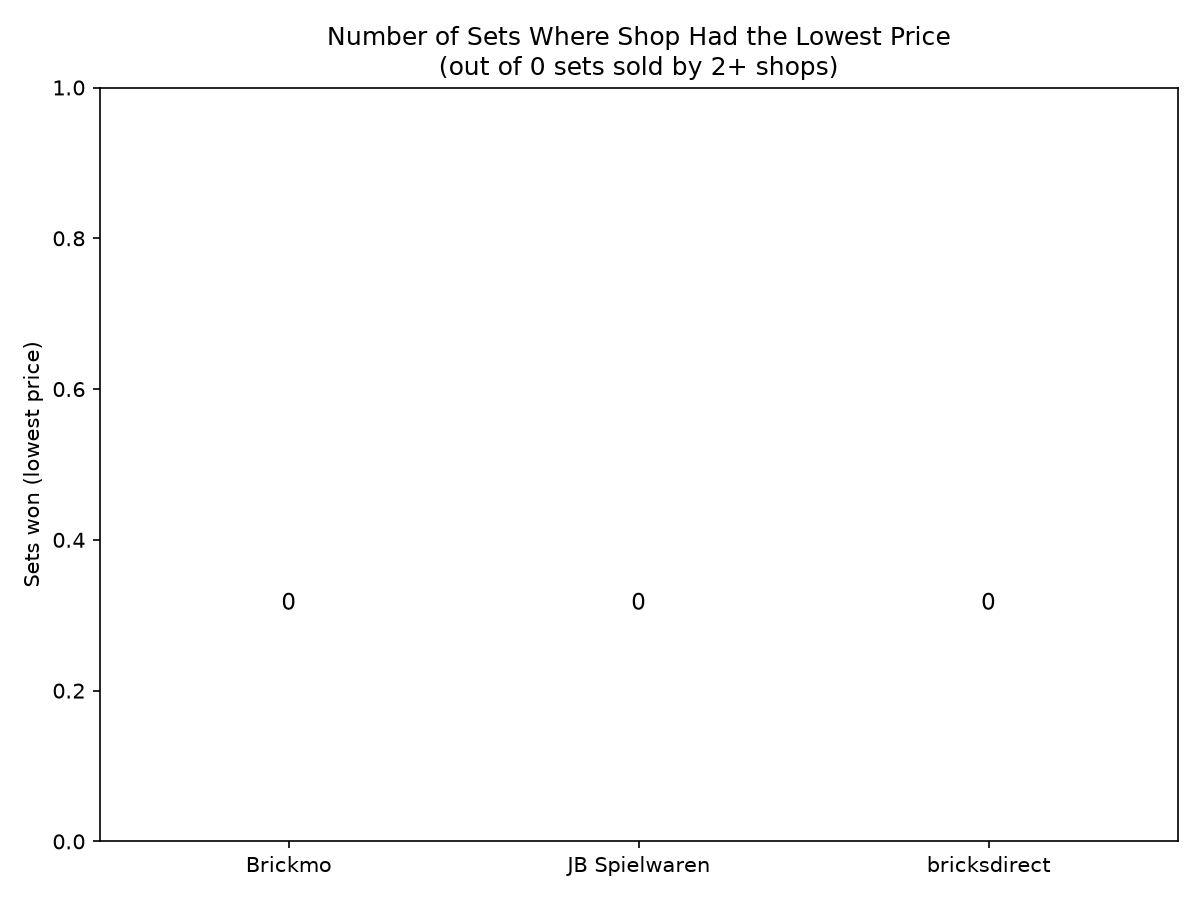
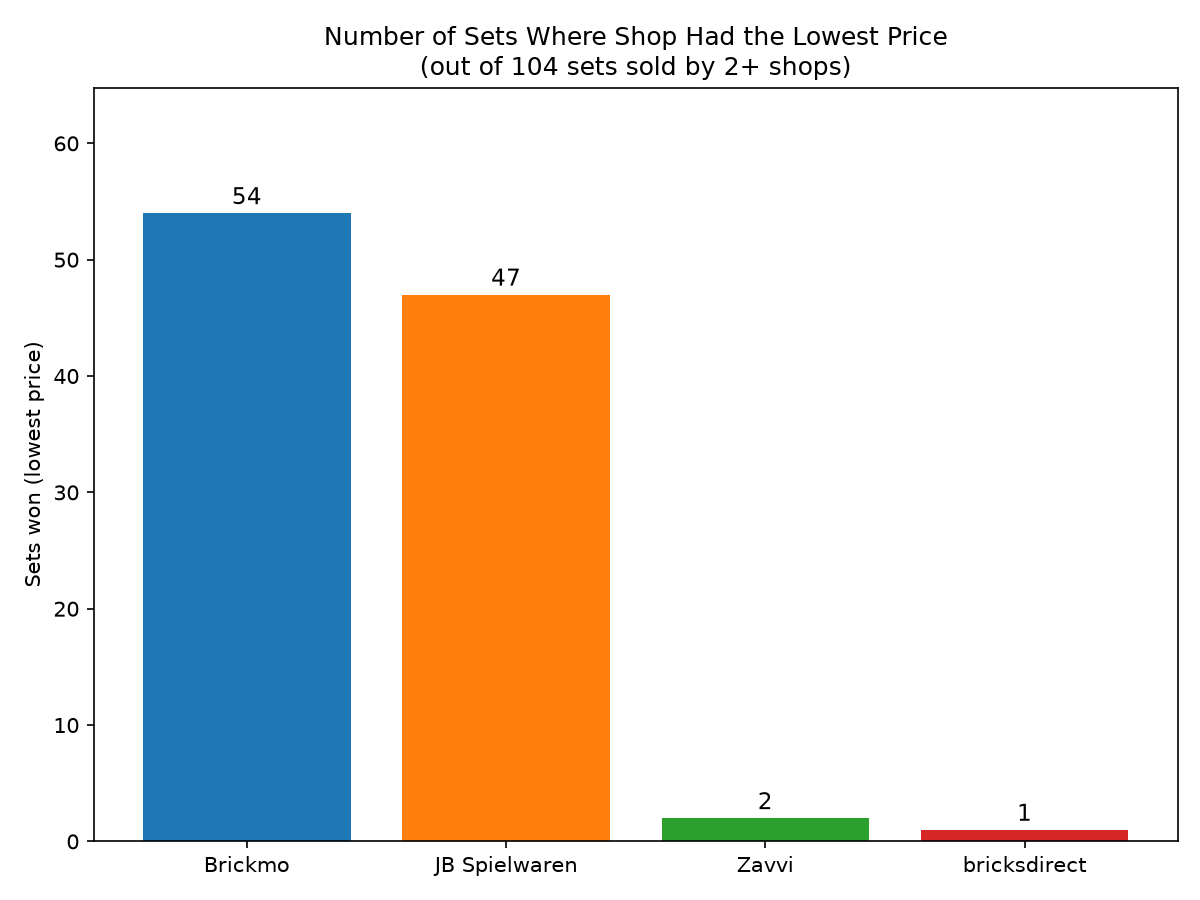
Updated Price Comparison and Data Visualization
Add chart for Top 20 products with highest price gap among shops.

diff --git a/DataVisualization.py b/DataVisualization.py
@@ -39,35 +39,39 @@ if not OUTPUT_XLSX.exists():
         f"Workbook not found at {OUTPUT_XLSX}. Run PriceComparisonAnalysis.py first."
     )
 
-# Read the already-computed (and recalculated) comparison table
+# Load the workbook and read the Raw Data sheet, which contains the actual
+# price listings used for the comparison and charts.
 wb = openpyxl.load_workbook(OUTPUT_XLSX, data_only=True)
-ws = wb["PriceComparison"]
-rows = list(ws.iter_rows(min_row=2, values_only=True))
-cmp_df = pd.DataFrame(rows, columns=[
-    "ProductID", "ProductName", "Category",
-    "LowestPrice", "LowestShop", "HighestPrice", "HighestShop",
-    "PriceDiff", "NumShops",
-])
-
-# Also load the cleaned Raw Data (for category-level price range across ALL
-# listings, not just the min/max already summarized per product)
 ws_raw = wb["Raw Data"]
 raw_rows = list(ws_raw.iter_rows(min_row=2, values_only=True))
 raw_df = pd.DataFrame(raw_rows, columns=["shop", "ProductID", "category", "name", "price"])
 
+# Clean and normalize the raw data so the charts can be computed reliably.
+raw_df["price"] = pd.to_numeric(raw_df["price"], errors="coerce")
+raw_df = raw_df.dropna(subset=["price"]).copy()
+raw_df["shop"] = raw_df["shop"].astype(str).str.strip()
+raw_df["ProductID"] = pd.to_numeric(raw_df["ProductID"], errors="coerce")
+raw_df = raw_df.dropna(subset=["ProductID"]).copy()
+raw_df["ProductID"] = raw_df["ProductID"].astype(int)
+
 # ---------------------------------------------------------------------------
 # CHART 1: Lowest Price Wins
-# Only products carried by 2+ shops are meaningful for a "who's cheaper" count
-# (a single-shop product trivially "wins" by default, which would just be
-# noise reflecting how many products each shop happens to list).
+# Count products where each shop offered the lowest price among the shops
+# that listed that product. Only products carried by 2+ shops are included.
 # ---------------------------------------------------------------------------
-multi_shop = cmp_df[cmp_df["NumShops"] > 1]
-wins = multi_shop["LowestShop"].value_counts()
+shared_products = raw_df.groupby("ProductID").filter(lambda g: g["shop"].nunique() > 1)
 
-# Make sure every shop that appears anywhere in the data shows on the chart,
-# even if it never won on a shared product (so it isn't silently omitted).
-all_shops = sorted(raw_df["shop"].unique())
-wins = wins.reindex(all_shops, fill_value=0).sort_values(ascending=False)
+if shared_products.empty:
+    wins = pd.Series(0, index=sorted(raw_df["shop"].unique()), dtype=int)
+else:
+    winner_per_product = (
+        shared_products.sort_values(["ProductID", "price"])
+        .groupby("ProductID", as_index=False)
+        .first()
+    )
+    wins = winner_per_product["shop"].value_counts()
+    all_shops = sorted(raw_df["shop"].unique())
+    wins = wins.reindex(all_shops, fill_value=0).sort_values(ascending=False)
 
 fig, ax = plt.subplots(figsize=(8, 6))
 colors = plt.cm.tab10.colors
@@ -78,10 +82,10 @@ for bar, val in zip(bars, wins.values):
 
 ax.set_title(
     f"Number of Sets Where Shop Had the Lowest Price\n"
-    f"(out of {len(multi_shop)} sets sold by 2+ shops)"
+    f"(out of {shared_products['ProductID'].nunique()} sets sold by 2+ shops)"
 )
 ax.set_ylabel("Sets won (lowest price)")
-ax.set_ylim(0, max(wins.values) * 1.2 if wins.values.max() > 0 else 1)
+ax.set_ylim(0, max(wins.values) * 1.2 if len(wins) and wins.values.max() > 0 else 1)
 plt.tight_layout()
 plt.savefig(CHART1_PATH, dpi=150)
 plt.close()
@@ -115,3 +119,64 @@ plt.savefig(CHART2_PATH, dpi=150)
 plt.close()
 print(f"Saved: {CHART2_PATH}")
 print(cat_range)
+
+# ==========================================================
+# CHART 3
+# Price comparison for products available in 2+ shops
+# ==========================================================
+
+# Pivot on ProductID ONLY — name text can differ slightly between shops
+comparison = (
+    raw_df.pivot_table(
+        index="ProductID",
+        columns="shop",
+        values="price",
+        aggfunc="min"
+    )
+    .reset_index()
+)
+
+# Attach one representative name per ProductID (first non-null name seen)
+name_lookup = (
+    raw_df.dropna(subset=["name"])
+    .drop_duplicates(subset=["ProductID"])
+    .set_index("ProductID")["name"]
+)
+comparison["name"] = comparison["ProductID"].map(name_lookup)
+
+shop_columns = [c for c in comparison.columns if c not in {"ProductID", "name"}]
+
+comparison["ShopCount"] = comparison[shop_columns].notna().sum(axis=1)
+comparison_2shops = comparison[comparison["ShopCount"] >= 2].copy()
+
+if comparison_2shops.empty:
+    print("No products with data in 2+ shops — skipping Chart 3.")
+    CHART3_PATH = None
+else:
+    comparison_2shops["PriceGap"] = (
+        comparison_2shops[shop_columns].max(axis=1)
+        - comparison_2shops[shop_columns].min(axis=1)
+    )
+    comparison_2shops["Cheapest Shop"] = comparison_2shops[shop_columns].idxmin(axis=1)
+    comparison_2shops["Most Expensive Shop"] = comparison_2shops[shop_columns].idxmax(axis=1)
+
+    chart3_data = comparison_2shops.nlargest(20, "PriceGap").copy()
+    chart3_data = chart3_data.set_index("name")
+
+    fig, ax = plt.subplots(figsize=(18, 8))
+    chart3_data[shop_columns].plot(kind="bar", ax=ax, width=0.8)
+    ax.set_title("Top 20 Products by Price Gap (Available in 2+ Shops)")
+    ax.set_xlabel("Product")
+    ax.set_ylabel("Price (€)")
+    ax.legend(title="Shop", bbox_to_anchor=(1.02, 1))
+    plt.tight_layout()
+
+    CHART3_PATH = OUTPUT_DIR / "price_comparison_2plus_shops.png"
+    plt.savefig(CHART3_PATH, dpi=300, bbox_inches="tight")
+    plt.close()
+
+    print(f"Saved: {CHART3_PATH}")
+
+    TABLE_PATH = OUTPUT_DIR / "price_comparison_2plus_shops.xlsx"
+    chart3_data[shop_columns + ["ShopCount", "PriceGap", "Cheapest Shop", "Most Expensive Shop"]].to_excel(TABLE_PATH)
+    print(f"Saved table: {TABLE_PATH}")

diff --git a/PriceComparison.py b/PriceComparison.py
@@ -50,13 +50,6 @@ before = len(df)
 df = df.dropna(subset=["ProductID"])
 print(f"Dropped {before - len(df)} rows with missing ProductID")
 
-# --- Exclude Zavvi rows: prices are in GBP (£) while every other shop is in
-#     EUR (€), and category is missing for these rows. Mixing currencies
-#     without a conversion rate would silently corrupt the comparison, so
-#     these 2 rows are excluded rather than guessed at. ---
-before = len(df)
-df = df[df["shop"].str.lower() != "zavvi"]
-print(f"Dropped {before - len(df)} Zavvi rows (GBP currency, not comparable to EUR prices)")
 
 # --- Clean price column: strip currency symbols/whitespace, convert to float ---
 df["price"] = (
@@ -170,9 +163,10 @@ ws.auto_filter.ref = f"A1:I{last_cmp_row}"
 # Note documenting exclusions/assumptions, placed just below the table
 note_row = last_cmp_row + 2
 ws.cell(row=note_row, column=1, value=(
-    "Note: Zavvi (2 rows, GBP prices, no category) and 1 row with a missing "
-    "ProductID were excluded from this analysis. 48 exact duplicate rows "
-    "(Brickmo) were also removed. See 'Raw Data' tab for the cleaned dataset."
+    "Note: 1 row with a missing ProductID was excluded from this analysis. "
+    "48 exact duplicate rows (Brickmo) were also removed. Zavvi rows are "
+    "included because their prices are converted to EUR in the scraper. "
+    "See 'Raw Data' tab for the cleaned dataset."
 )).font = Font(italic=True, size=9, name="Arial")
 
 wb.save(OUTPUT_XLSX)